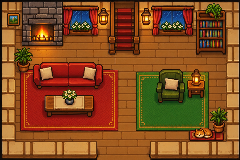
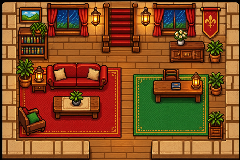
Usa interior das casas, fixa 12 corações e raio por Dominic

diff --git a/src/game/engine.ts b/src/game/engine.ts
@@ -2,6 +2,7 @@ import { RetroAudio, TrackName } from './audio';
 import {
   CHEST_ITEMS,
   DAY_CYCLE_FRAMES,
+  DOMINIC_BEAM_COLORS,
   DX,
   DY,
   FATHER_INTRO_FLAG,
@@ -13,6 +14,7 @@ import {
   INTRO_LOGO_FRAMES,
   INTRO_RISE_FRAMES,
   INTRO_VIDEO_FRAMES,
+  MAX_HEARTS,
   NAME_ROWS,
   QUESTS,
   SHIELD_STATS,
@@ -22,6 +24,7 @@ import {
   STORY_PAGES,
   STORY_TONES,
   SWORD_STATS,
+  T,
   W,
 } from './constants';
 import {
@@ -660,9 +663,17 @@ export class GameEngine {
     }
     const father = (this.world.npcs[151] || []).find((n) => n.name === 'Pai');
     if (!father) return;
-    const fx = FATHER_TILE.x * 16 + 8;
-    const fy = FATHER_TILE.y * 16 + 8;
-    if (Math.hypot(this.G.x + 8 - fx, this.G.y + 8 - fy) >= 24) return;
+    const hx = this.G.x + 8;
+    const hy = this.G.y + 8;
+    const fx = FATHER_TILE.x * T + T / 2;
+    const fy = FATHER_TILE.y * T + T / 2;
+    const pertoDoPai = Math.hypot(hx - fx, hy - fy) <= 3 * T;
+    // A conversa também começa quando o herói chega à passagem inferior.
+    const passage = (this.world.doors[151] || []).find((d) => d.y === 8);
+    const pertoDaPorta = passage
+      ? Math.hypot(hx - (passage.x * T + T / 2), hy - (passage.y * T + T / 2)) <= 2 * T
+      : false;
+    if (!pertoDoPai && !pertoDaPorta) return;
 
     this.V.fl[FATHER_INTRO_FLAG] = 1;
     this.G.sw = 0;
@@ -787,6 +798,31 @@ export class GameEngine {
     }
     if (f >= 3) d.activeEffect = 'all';
     else if (f >= 1) d.activeEffect = 'single';
+  }
+
+  /** Com os 12 corações cheios, o ataque lança um raio do Dominic atual junto com a espada. */
+  private fireFullHeartBeam(): void {
+    if (this.V.mh < MAX_HEARTS || this.G.hp < this.V.mh * 2) return;
+    const d = this.G.dir;
+    const element: DominicKind = this.V.dominic?.current ?? 'none';
+    const color = DOMINIC_BEAM_COLORS[element] ?? DOMINIC_BEAM_COLORS.none;
+    const x = this.G.x + 8 + DX[d] * 10;
+    const y = this.G.y + 9 + DY[d] * 10;
+    this.projectiles.push({
+      x,
+      y,
+      vx: DX[d] * 4,
+      vy: DY[d] * 4,
+      kind: 'beam',
+      element,
+      life: 45,
+    });
+    this.burst(x, y, color.glow, true, 6);
+    this.audio.bp(
+      element === 'white' ? 520 : element === 'blue' ? 1480 : 1200,
+      0.1,
+      element === 'white' ? 'sawtooth' : 'square',
+    );
   }
 
   /** Dominic do Raio: a descarga salta para inimigos próximos. */
@@ -1137,7 +1173,7 @@ export class GameEngine {
         if (r.bombs) this.V.bombs = Math.min(99, this.V.bombs + r.bombs);
         if (n.q === 'marta') this.V.torches = Math.min(99, this.V.torches + 3);
         if (r.mh) {
-          this.V.mh++;
+          this.V.mh = Math.min(MAX_HEARTS, this.V.mh + r.mh);
           this.G.hp = this.V.mh * 2;
         }
         if (r.dmg) {
@@ -1639,10 +1675,59 @@ export class GameEngine {
         this.burst(
           p.x,
           p.y,
-          p.kind === 'orb' ? '#ff6ad8' : p.kind === 'fire' ? '#ff9a2a' : '#e8f4ff',
+          p.kind === 'orb'
+            ? '#ff6ad8'
+            : p.kind === 'fire'
+              ? '#ff9a2a'
+              : p.kind === 'beam'
+                ? DOMINIC_BEAM_COLORS[p.element ?? 'none'].glow
+                : '#e8f4ff',
           p.kind !== 'arrow',
           5,
         );
+        continue;
+      }
+
+      if (p.kind === 'beam') {
+        const color = DOMINIC_BEAM_COLORS[p.element ?? 'none'];
+        if ((this.t & 1) === 0) {
+          this.particles.push({
+            x: p.x + (Math.random() - 0.5) * 3,
+            y: p.y + (Math.random() - 0.5) * 3,
+            vx: 0,
+            vy: 0,
+            l: 6,
+            maxL: 6,
+            c: color.trail,
+            glow: true,
+            size: 2,
+            kind: 'spark',
+          });
+        }
+        let hit = false;
+        for (const e of this.G.en) {
+          if (e.hp <= 0) continue;
+          const hr = e.k === 4 ? 20 : 12;
+          const ex = e.k === 4 ? e.x + 16 : e.x + 8;
+          const ey = e.k === 4 ? e.y + 16 : e.y + 8;
+          if (Math.abs(ex - p.x) < hr && Math.abs(ey - p.y) < hr) {
+            this.damageEnemy(e, Math.max(3, this.V.dmg + 2), p.vx * 2, p.vy * 2);
+            if (p.element === 'white') e.burn = Math.max(e.burn | 0, 110);
+            if (p.element === 'blue' && e.k !== 4) {
+              e.frozen = Math.max(e.frozen | 0, 90);
+              this.burst(ex, ey, '#8ce8ff', true, 5);
+            }
+            if (p.element === 'green') this.chainLightning(ex, ey, e);
+            this.burst(p.x, p.y, color.glow, true, 8);
+            hit = true;
+            break;
+          }
+        }
+        if (hit) {
+          this.G.en = this.G.en.filter((e) => e.hp > 0);
+          continue;
+        }
+        next.push(p);
         continue;
       }
 
@@ -1943,6 +2028,7 @@ export class GameEngine {
         this.swingHitClanged = false;
         this.audio.playMinishSwing();
         this.emitSwordArcSparks(13);
+        this.fireFullHeartBeam();
       } else if (this.V.sword) {
         this.audio.bp(220, 0.05);
         this.V.msg = 'EQUIPE A ESPADA (INV)';

diff --git a/src/game/render.ts b/src/game/render.ts
@@ -1,5 +1,6 @@
 import {
   DAY_CYCLE_FRAMES,
+  DOMINIC_BEAM_COLORS,
   ENEMY_PALETTES,
   FONT,
   GAME_ZOOM,
@@ -43,8 +44,9 @@ export type Star = [number, number, number];
  * The hero's living room and bedroom use reference images as backdrops. The
  * tile map still provides all collision, doors, bed, stairs and chest logic.
  */
+const HOUSE_IMAGE = '/rooms/hero_house.png';
 const ROOM_IMAGES: Record<number, string> = {
-  151: '/rooms/hero_house.png',
+  151: HOUSE_IMAGE,
   451: '/rooms/hero_bedroom.png',
 };
 
@@ -62,7 +64,11 @@ function getRoomImage(src: string): HTMLImageElement | null {
 }
 
 function roomImageFor(map: number): string | null {
-  return ROOM_IMAGES[map] ?? null;
+  if (ROOM_IMAGES[map]) return ROOM_IMAGES[map];
+  // Todas as casas usam o mesmo interior da referência; 451 é o quarto e
+  // 301 é a sala angelical (desenhada por tiles, não é uma casa).
+  if (isHouse(map) && map !== 451 && map !== 301) return HOUSE_IMAGE;
+  return null;
 }
 
 export interface GameCamera {
@@ -2230,6 +2236,16 @@ function drawProjectiles(g: CanvasRenderingContext2D, projectiles: Projectile[],
       R(g, fast ? '#ff6a55' : '#4a4a66', px - 3, py - 3, 3, 3);
       R(g, '#ffd84a', px - 1, py - 6, 2, 2);
       R(g, fast ? '#fff' : '#ff7a2a', px, py - 7, 2, 2);
+    } else if (p.kind === 'beam') {
+      // Raio dos 12 corações: cor definida pelo Dominic atual.
+      const c = DOMINIC_BEAM_COLORS[p.element ?? 'none'];
+      const pulse = ((t >> 1) & 1) !== 0;
+      R(g, '#0008', px - 5, py - 3, 10, 6);
+      R(g, c.trail, px - 5 - (p.vx | 0), py - 1 - (p.vy | 0), 8, 2);
+      R(g, c.glow, px - 4, py - 3, 8, 6);
+      R(g, c.core, px - 3, py - 2, 6, 4);
+      R(g, '#fff', px - 1, py - 1, 2, 2);
+      if (pulse) R(g, c.core, px - 6, py - 1, 2, 2);
     } else if (p.kind === 'fire') {
       // Dominic do Fogo: bola de fogo com chama tremulante
       const wob = ((t >> 1) & 1) ? 1 : 0;
@@ -2481,6 +2497,8 @@ function drawLighting(
   for (const p of projectiles) {
     if (p.kind === 'orb') {
       addBloom(g, p.x, p.y, 18, 'rgba(255, 70, 180, 0.34)', 'rgba(180, 30, 220, 0)');
+    } else if (p.kind === 'beam') {
+      addBloom(g, p.x, p.y, 30, DOMINIC_BEAM_COLORS[p.element ?? 'none'].bloom, 'rgba(0, 0, 0, 0)');
     } else if (p.kind === 'fire') {
       addBloom(g, p.x, p.y, 26, 'rgba(255, 130, 30, 0.42)', 'rgba(255, 60, 10, 0)');
     } else if (p.kind === 'bomb' && p.life < 20) {

diff --git a/src/game/world.ts b/src/game/world.ts
@@ -8,6 +8,7 @@ import {
   FLOOR_TILES,
   HOUSE_LINES,
   HPT,
+  MAX_HEARTS,
   OBSTACLE_TILES,
   SAVE_KEY,
   SPECIAL_HOUSE_NPCS,
@@ -77,7 +78,7 @@ export function createInitialProgress(): ProgressState {
     fl: {},
     dmg: 1,
     pot: 1,
-    mh: 3,
+    mh: MAX_HEARTS,
     msg: '',
     mt: 0,
     sword: 0,
@@ -109,7 +110,7 @@ export function createInitialHero(): HeroState {
     x: 30,
     y: 52,
     dir: 2,
-    hp: 6,
+    hp: MAX_HEARTS * 2,
     rp: 40, // Starting pocket money for central village shops
     inv: 0,
     hitFlash: 0,
@@ -900,6 +901,8 @@ export function loadSavedGame(): {
 
     const world = buildWorld();
     const V = Object.assign(createInitialProgress(), parsed.V);
+    // A barra de corações é fixa em 12, mesmo em saves antigos.
+    V.mh = MAX_HEARTS;
     if (!V.equipped) V.equipped = V.sword ? 'sword' : 'none';
     if (!V.swordTier) V.swordTier = V.sword ? (V.dmg > 1 ? 'aco' : 'lendaria') : 'none';
     if (!V.ownedSwords || !V.ownedSwords.length) {
@@ -947,6 +950,7 @@ export function loadSavedGame(): {
       it: [],
       en: [],
     });
+    G.hp = Math.max(1, Math.min(G.hp, V.mh * 2));
 
     return { heroName, world, G, V, worldTime: parsed.worldTime ?? 600 };
   } catch {

diff --git a/src/game/constants.ts b/src/game/constants.ts
@@ -1,4 +1,4 @@
-import { OutfitId, ShieldTier, ShopItem, SwordTier } from './types';
+import { DominicKind, OutfitId, ShieldTier, ShopItem, SwordTier } from './types';
 
 export const W = 240;
 export const H = 160;
@@ -11,6 +11,20 @@ export const GAME_ZOOM = 1;
 export const T = 16;
 export const FONT = '8px "Press Start 2P", monospace';
 export const SAVE_KEY = 'lh_save';
+
+/** Vida sempre começa com 12 corações (24 meios-corações). */
+export const MAX_HEARTS = 12;
+
+/** Cores do raio disparado com a barra cheia, conforme o Dominic atual. */
+export const DOMINIC_BEAM_COLORS: Record<
+  DominicKind,
+  { core: string; glow: string; trail: string; bloom: string }
+> = {
+  none: { core: '#ffffff', glow: '#9ed8ff', trail: '#4a8ad8', bloom: 'rgba(150,210,255,0.5)' },
+  white: { core: '#fff4b0', glow: '#ff8a2a', trail: '#ff4a12', bloom: 'rgba(255,130,30,0.55)' },
+  blue: { core: '#f0ffff', glow: '#8ce8ff', trail: '#2a9cff', bloom: 'rgba(120,230,255,0.55)' },
+  green: { core: '#fffbc0', glow: '#b6ff5a', trail: '#5ac82a', bloom: 'rgba(160,255,90,0.55)' },
+};
 
 export const DX = [0, 1, 0, -1] as const;
 export const DY = [-1, 0, 1, 0] as const;

diff --git a/src/game/types.ts b/src/game/types.ts
@@ -81,9 +81,11 @@ export interface Projectile {
   y: number;
   vx: number;
   vy: number;
-  kind: 'arrow' | 'bomb' | 'orb' | 'fire';
+  kind: 'arrow' | 'bomb' | 'orb' | 'fire' | 'beam';
   life: number;
   fromEnemy?: boolean;
+  /** Dominic que deu cor ao raio da barra cheia. */
+  element?: DominicKind;
 }
 
 export interface RupeeDrop {
